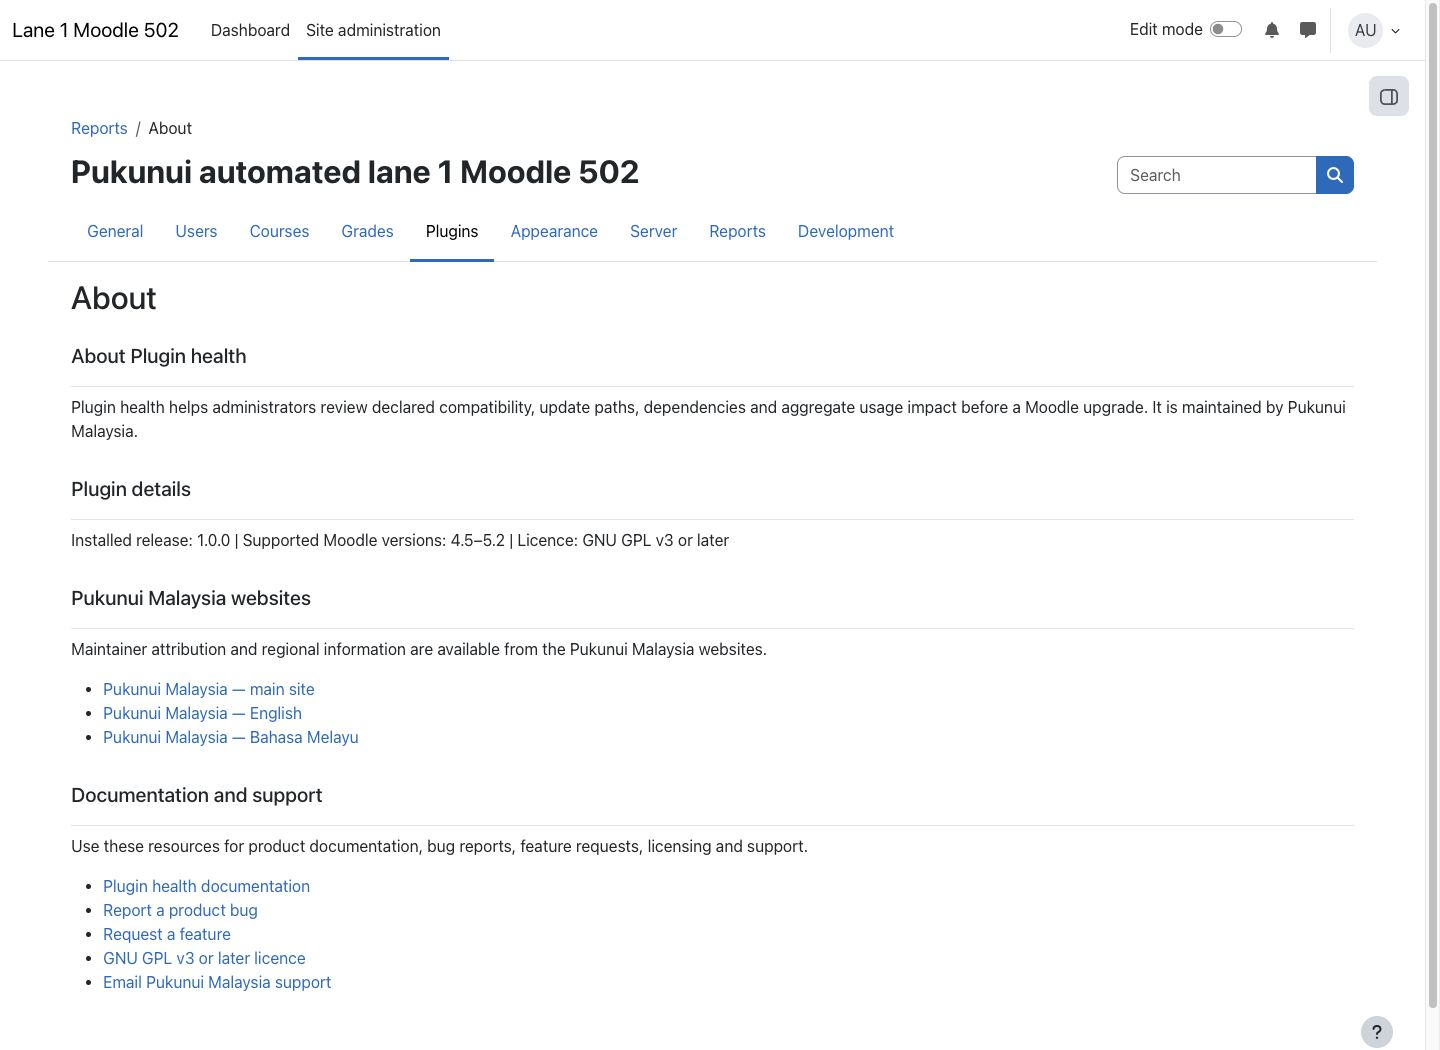
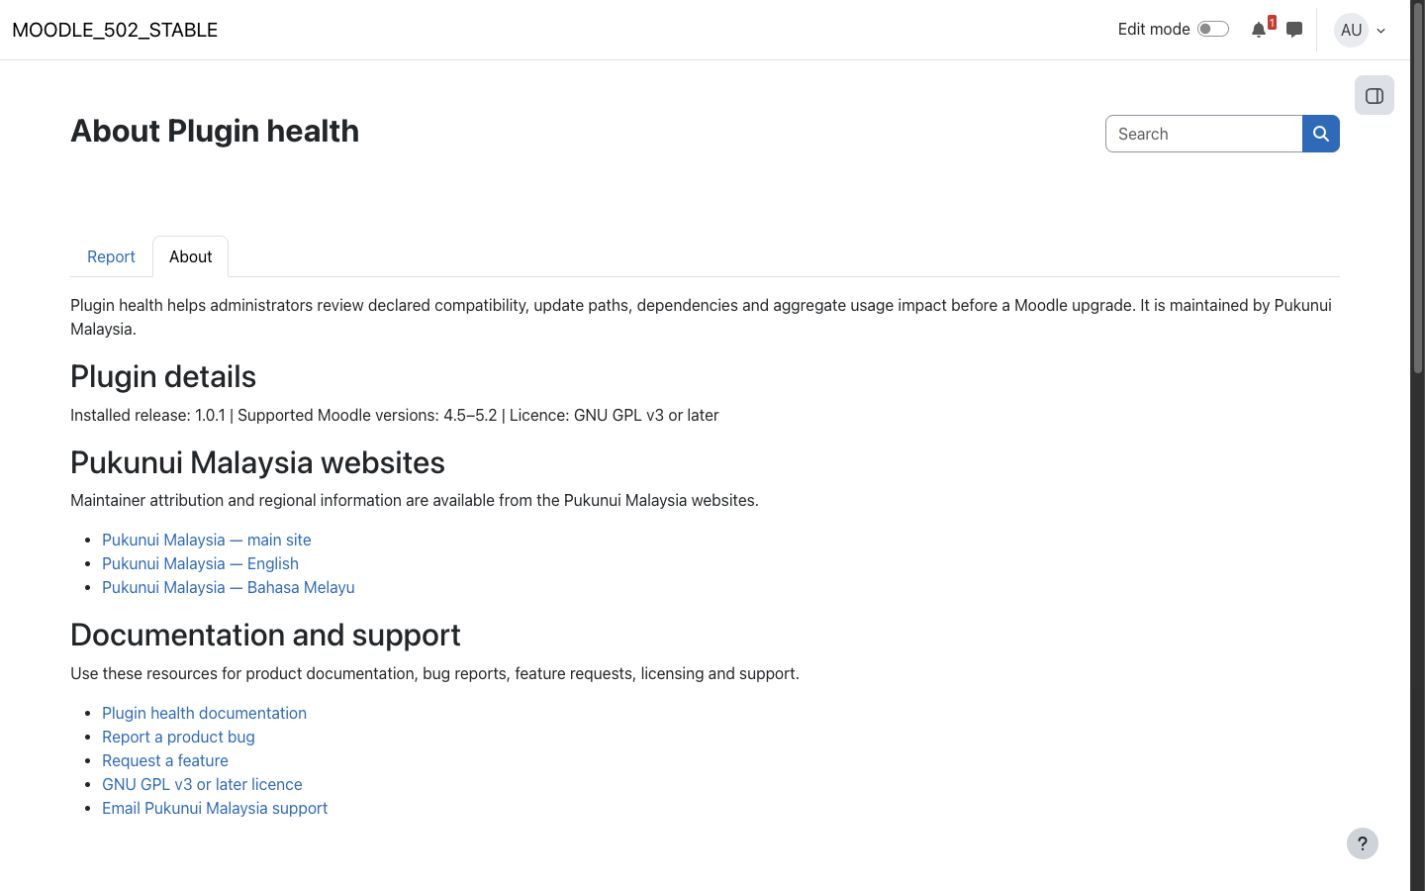
docs: update Plugin health for 1.0.1 (#35)

diff --git a/content/products/moodle-report_pluginhealth/index.md b/content/products/moodle-report_pluginhealth/index.md
@@ -8,15 +8,15 @@ nav_order: 20
 
 Plugin health helps Moodle administrators plan upgrades by combining installed plugin declarations with public release metadata from Moodle's official plugin information service. It shows likely upgrade actions for third-party plugins without downloading, installing, or changing them.
 
-Compatibility results describe declared metadata, not runtime certification. Always test the selected plugins together in a staging environment before upgrading a production site.
+The report uses compatibility information from installed plugins and Moodle Marketplace. Test plugins together on a copy of the site before upgrading a live site.
 
 ## Key features
 
 - Inventory installed third-party plugins using Moodle's plugin manager.
 - Compare the exact installed release and the best available release with a selected Moodle target.
-- Distinguish **Ready**, **Update required**, **Blocked**, **Manual review**, and **Unknown** results, with supporting evidence and suggested actions.
+- Distinguish **Ready**, **Update required**, **Blocked**, **Manual review**, and **Unknown** results, with accessible explanations, supporting evidence, and concise recommendations.
 - Show local code and database state, requirements, dependencies, and reverse dependencies.
-- Add aggregate usage counts for activities, blocks, question types, course formats, and enrolment methods.
+- Add short-lived, cached aggregate usage counts for installed contributed activities, blocks, question types, course formats, and enrolment methods.
 - Load external results progressively and cache responses to reduce repeat requests.
 - Export complete CSV and JSON action registers for upgrade planning.
 - Handle custom plugins, missing listings, paid listings, rate limits, and external-service outages without treating missing information as proof of incompatibility.
@@ -29,11 +29,11 @@ Compatibility results describe declared metadata, not runtime certification. Alw
 
 *The report combines local declarations with available release evidence. Results are planning guidance, not a guarantee of runtime compatibility. The screenshot uses real release metadata in an isolated test site with fictional demonstration data.*
 
-### Administrator About page
+### Administrator About tab
 
-![Plugin health About page showing installed release, supported Moodle versions, maintainer information, and support links](images/plugin-health-about.jpg)
+![Plugin health About tab showing installed release, supported Moodle versions, maintainer information, and support links](images/plugin-health-about.jpg)
 
-*The static About page derives the release and compatibility range from installed plugin metadata and provides documentation and support links. The screenshot uses real release metadata in an isolated test site with fictional demonstration data.*
+*The static About tab derives the release and compatibility range from installed plugin metadata and provides documentation and support links. The screenshot uses real release metadata in an isolated test site with fictional demonstration data.*
 
 ## Requirements
 
@@ -54,11 +54,11 @@ No separate dependency installation or command-line setup is required. The repor
 
 ### Analyse installed plugins
 
-Open **Site administration > Reports > Plugin health**, select the target Moodle version, and choose **Analyse plugin health**. The local inventory is available immediately; external results appear progressively. Review each plugin's evidence, dependency information, usage impact, and required action.
+Open **Site administration > Reports > Plugin health**, select the target Moodle version, and choose **Analyse plugin health**. The local inventory is available immediately; external results appear progressively. Review each plugin's evidence, dependency information, usage impact, and recommendation. Hover over or focus a readiness state to see its explanation.
 
 ### Interpret results
 
-- **Ready:** the installed code or exact release declares support for the target, and local dependencies pass.
+- **Ready:** the installed code or exact release declares support for the target, and no local dependency blocker was found. This is not runtime certification.
 - **Update required:** a newer target-compatible release is available.
 - **Blocked:** local plugin state or a dependency is invalid, or a listed plugin has no target-compatible release.
 - **Manual review:** declarations conflict, or a custom or unlisted plugin has insufficient decisive local metadata.
@@ -72,13 +72,13 @@ Use **Download CSV** or **Download JSON** to obtain a complete target report for
 
 ### View plugin information
 
-Open **Site administration > Plugins > Reports > About** for the installed release, supported Moodle range, licence, maintainer websites, and documentation and support links. The page is headed **About Plugin health**. It is informational only; Plugin health has no configurable settings.
+Open **Site administration > Reports > Plugin health > About** for the installed release, supported Moodle range, licence, maintainer websites, and documentation and support links. It is informational only; Plugin health has no configurable settings or Plugins-page settings link.
 
 ## Privacy and permissions
 
-The report and exports require the system capability `report/pluginhealth:view`, granted to managers by default. The About page requires Moodle's site-configuration capability. Learners and other users without the report capability cannot access the report or its exports.
+The report, About tab, and exports require the system capability `report/pluginhealth:view`, granted to managers by default. Learners and other users without the report capability cannot access them.
 
-Plugin health stores no personal data. It reads aggregate usage counts through Moodle's database API and does not display or export individual user records. Its Privacy API provider declares that no personal data is stored and describes the external metadata lookup.
+Plugin health stores no personal data. It reads aggregate usage counts through Moodle's database API, retains them briefly in Moodle's cache, and does not display or export individual user records. Its Privacy API provider declares that no personal data is stored and describes the external metadata lookup.
 
 External requests send plugin component names, installed version numbers, and the selected Moodle target to Moodle's public metadata service. Moodle's configured proxy is respected, TLS certificates are verified, and responses are cached. No credentials are required. If the service is unavailable, local evidence remains available and inconclusive results are reported explicitly.
 
@@ -93,6 +93,7 @@ The plugin does not purchase, download, install, or update Marketplace packages.
 - If declarations conflict, do not treat a Marketplace listing alone as proof that the installed code is compatible.
 - Successful and missing-listing responses are cached for up to one day; temporary failures are cached for five minutes. A site administrator can purge Moodle caches when an immediate refresh is necessary.
 - If exports or analysis appear incomplete, reload the report and repeat the analysis; the plugin makes no installation changes that need to be rolled back.
+- If the report layout appears unstyled after an upgrade, purge Moodle caches so the current plugin stylesheet is served.
 
 ## Support and licence
 
